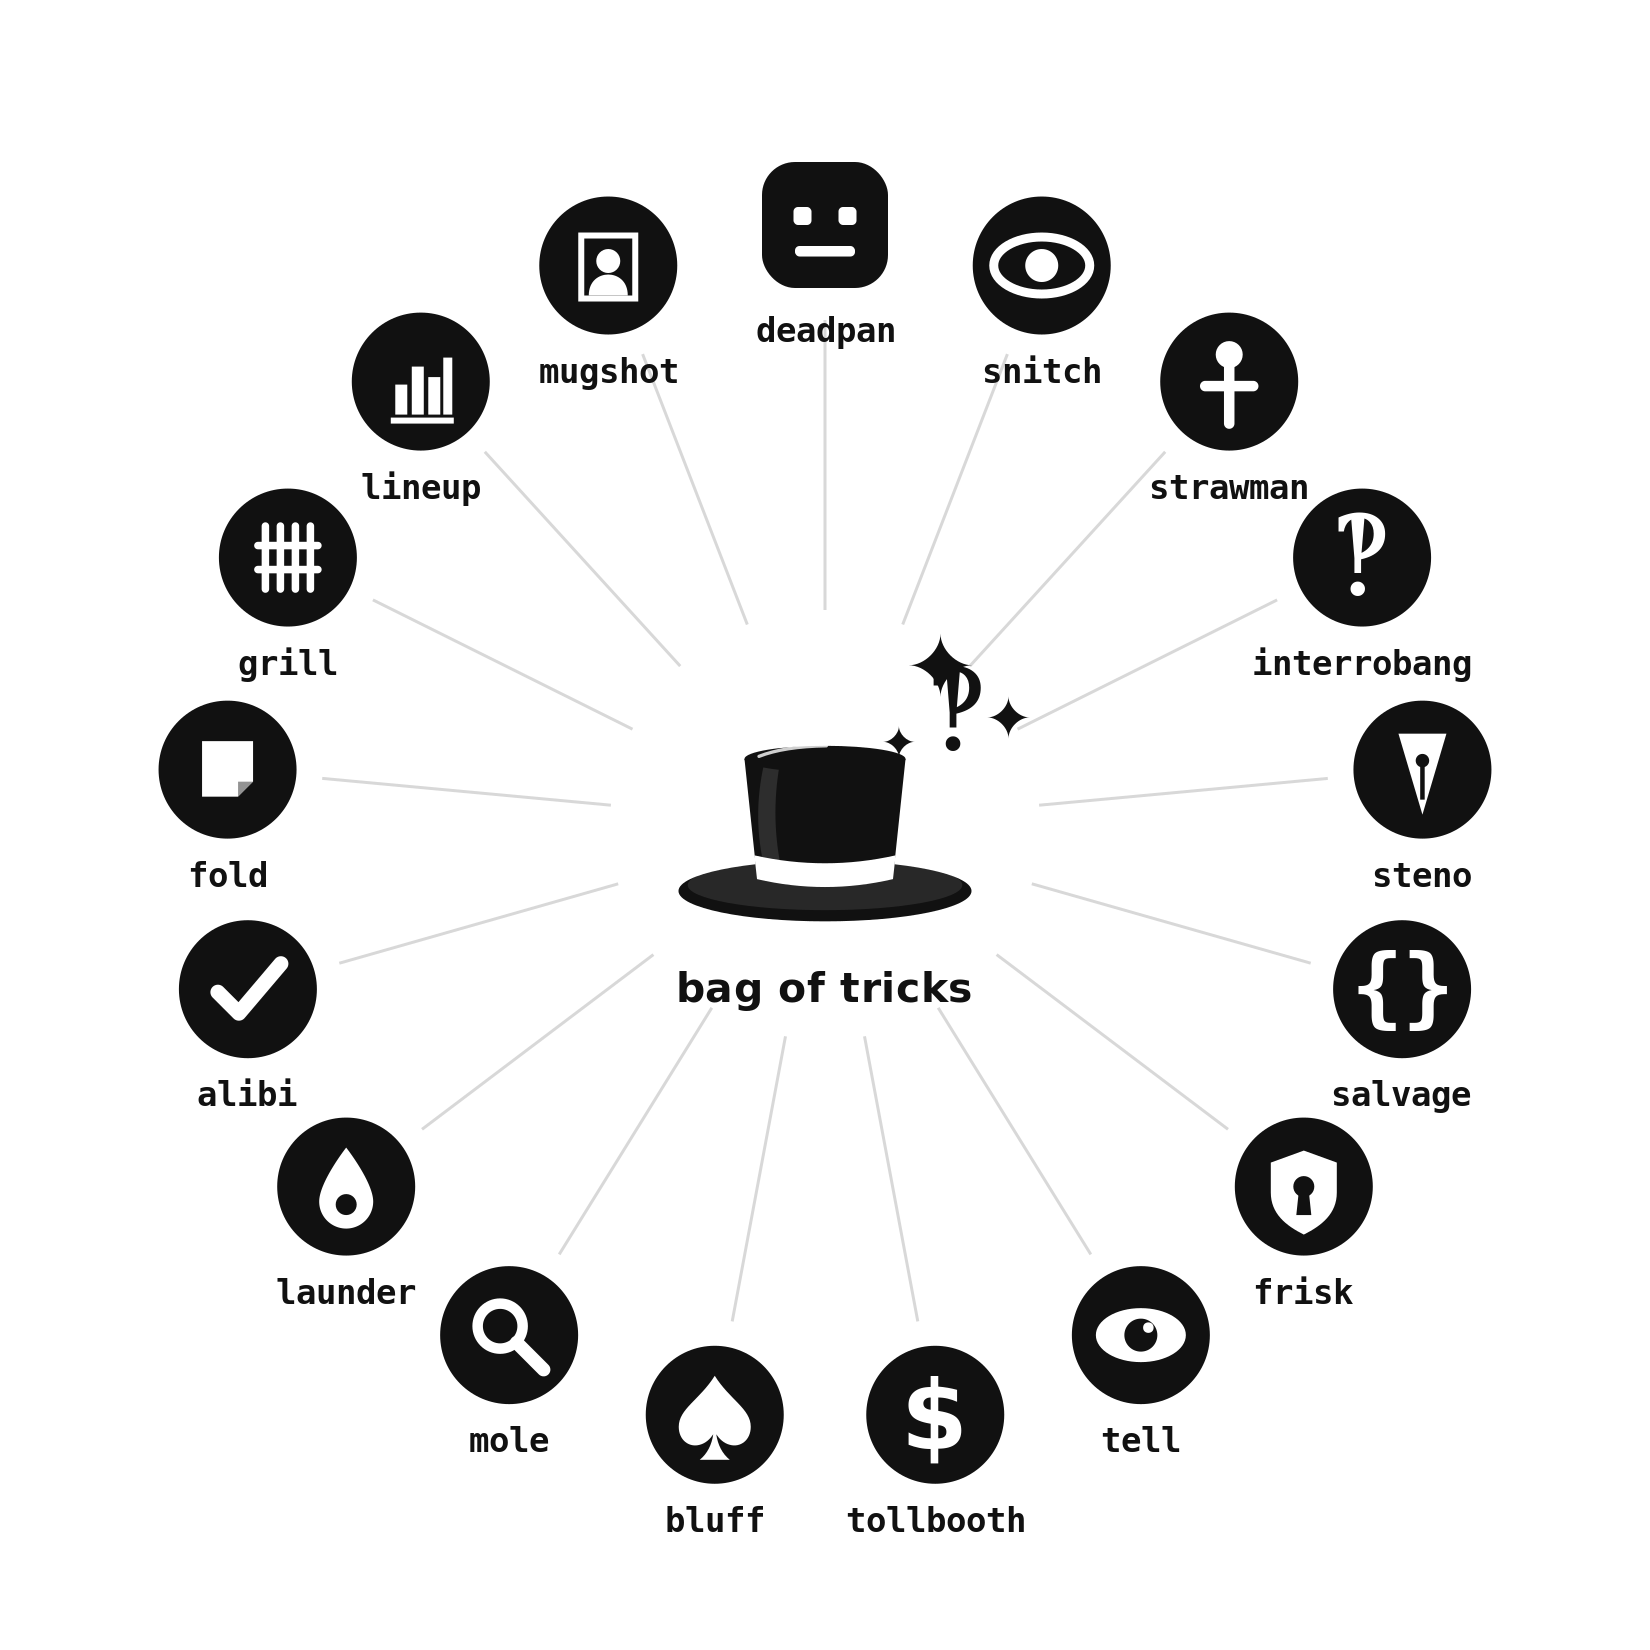
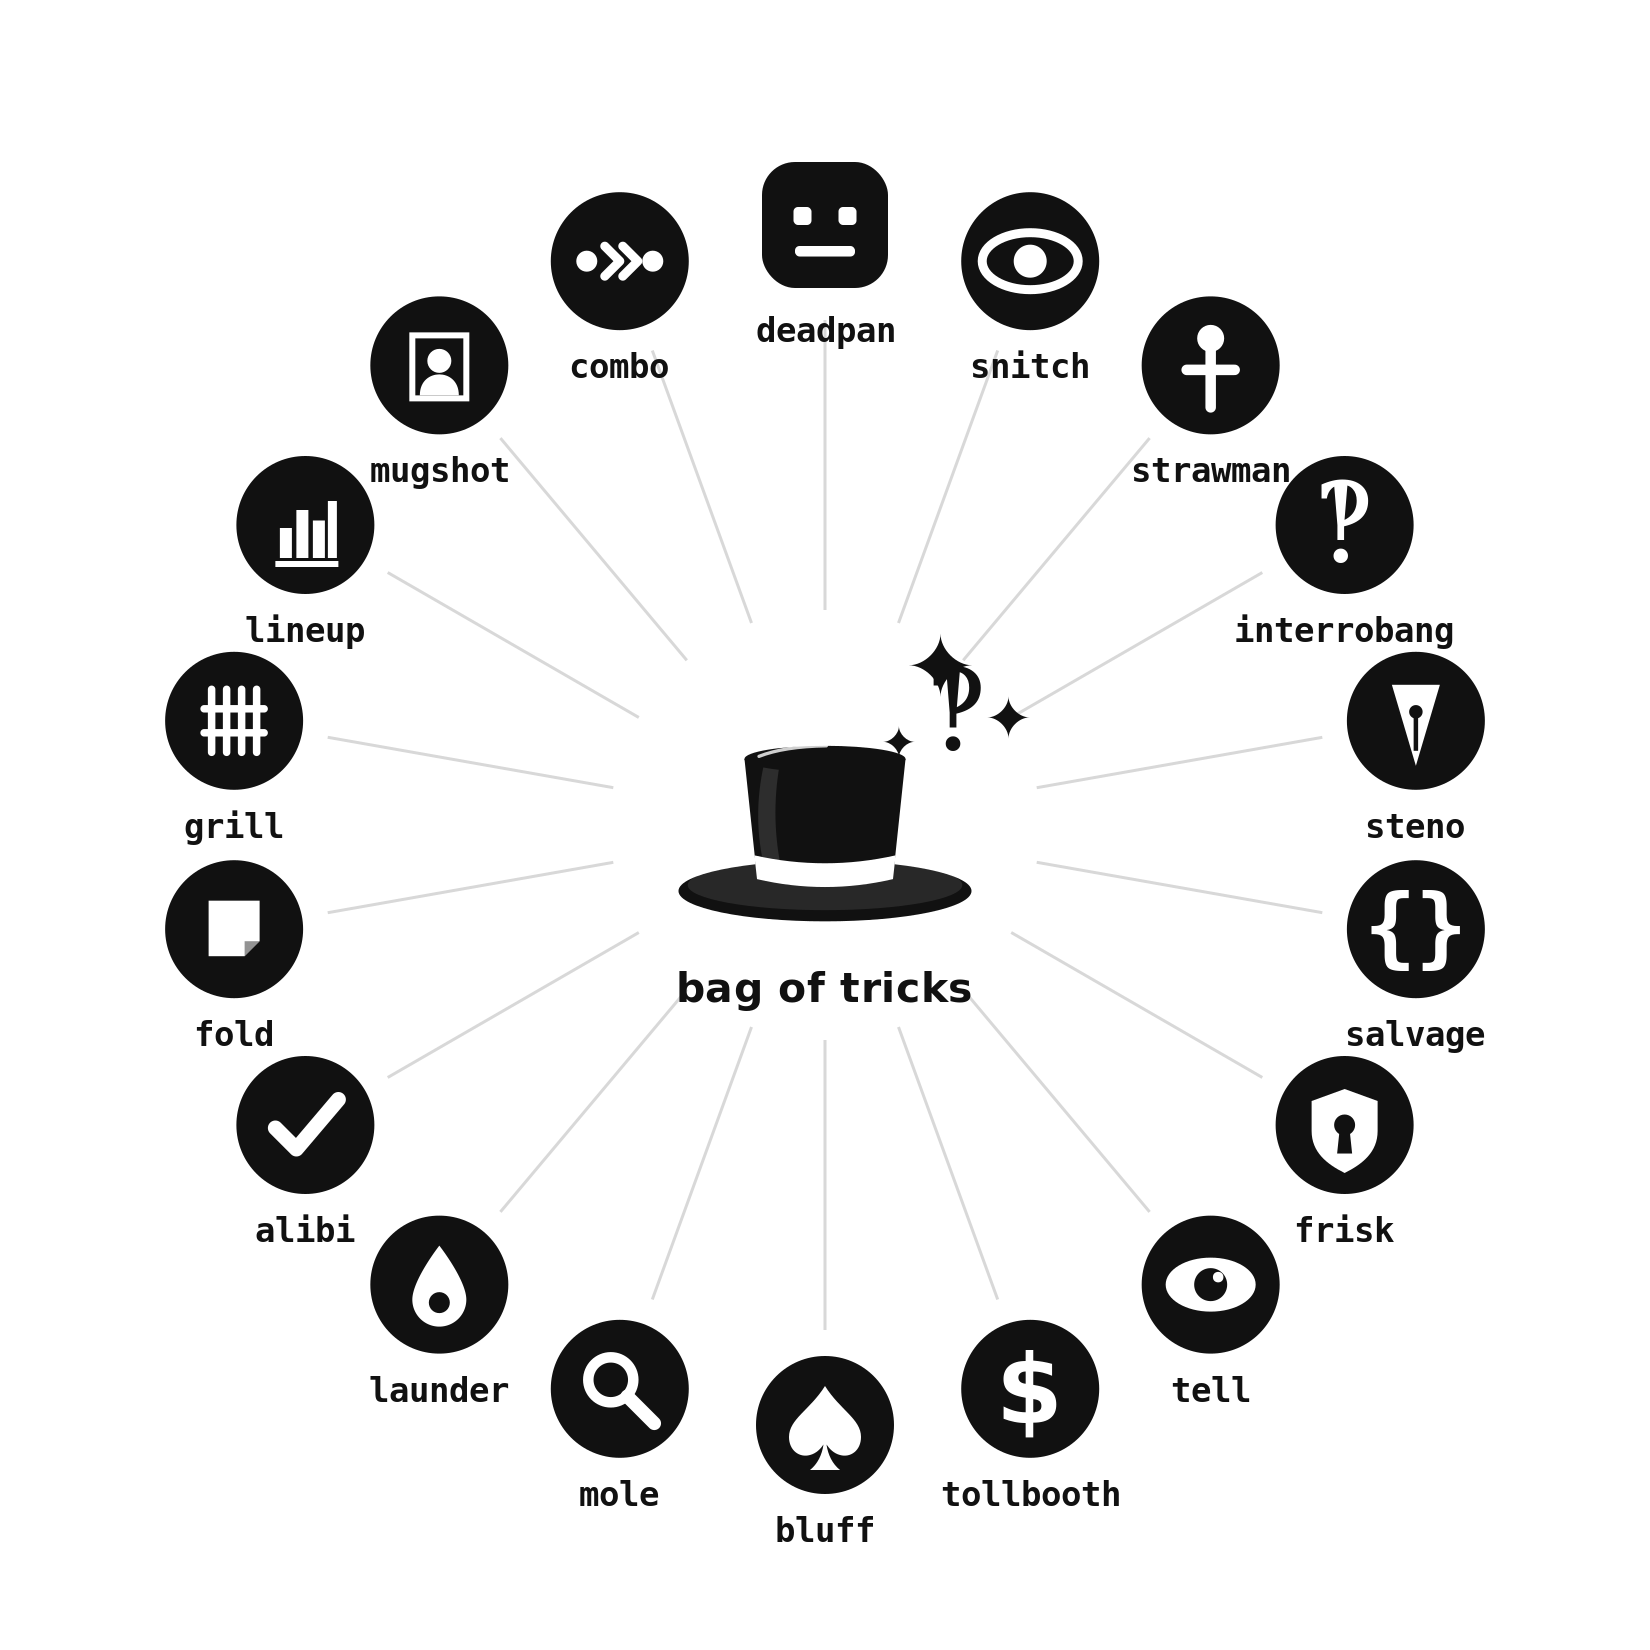
chore(assets): regenerate network, wheel, GIF, and site for combo
Re-render the bag-level visuals at 18 tricks now that `combo` is in:
the README hero GIF, the network and wheel PNGs, and index.html. combo
shows up under the workflow cluster with its chained-chevron icon.
Deterministic (seed=42), so the only diffs are the new node and count.

diff --git a/index.html b/index.html
@@ -111,7 +111,7 @@
     <div class="grid"></div>
     <svg id="net" preserveAspectRatio="xMidYMid meet">
       <g id="cedges"><line class="ce" id="ce0" stroke="#3b82f6"/><line class="ce" id="ce1" stroke="#22a55a"/><line class="ce" id="ce2" stroke="#e5534b"/><line class="ce" id="ce3" stroke="#a371f7"/><line class="ce" id="ce4" stroke="#d4a017"/></g>
-      <g id="tedges"><line class="te" id="te0" stroke="#3b82f6"/><line class="te" id="te1" stroke="#22a55a"/><line class="te" id="te2" stroke="#e5534b"/><line class="te" id="te3" stroke="#a371f7"/><line class="te" id="te4" stroke="#d4a017"/><line class="te" id="te5" stroke="#3b82f6"/><line class="te" id="te6" stroke="#e5534b"/><line class="te" id="te7" stroke="#3b82f6"/><line class="te" id="te8" stroke="#d4a017"/><line class="te" id="te9" stroke="#22a55a"/><line class="te" id="te10" stroke="#e5534b"/><line class="te" id="te11" stroke="#3b82f6"/><line class="te" id="te12" stroke="#22a55a"/><line class="te" id="te13" stroke="#3b82f6"/><line class="te" id="te14" stroke="#22a55a"/><line class="te" id="te15" stroke="#d4a017"/><line class="te" id="te16" stroke="#3b82f6"/></g>
+      <g id="tedges"><line class="te" id="te0" stroke="#3b82f6"/><line class="te" id="te1" stroke="#22a55a"/><line class="te" id="te2" stroke="#e5534b"/><line class="te" id="te3" stroke="#a371f7"/><line class="te" id="te4" stroke="#d4a017"/><line class="te" id="te5" stroke="#3b82f6"/><line class="te" id="te6" stroke="#e5534b"/><line class="te" id="te7" stroke="#3b82f6"/><line class="te" id="te8" stroke="#d4a017"/><line class="te" id="te9" stroke="#22a55a"/><line class="te" id="te10" stroke="#e5534b"/><line class="te" id="te11" stroke="#3b82f6"/><line class="te" id="te12" stroke="#22a55a"/><line class="te" id="te13" stroke="#3b82f6"/><line class="te" id="te14" stroke="#22a55a"/><line class="te" id="te15" stroke="#d4a017"/><line class="te" id="te16" stroke="#3b82f6"/><line class="te" id="te17" stroke="#a371f7"/></g>
       <g class="hat" id="hat">
   <title>bag of tricks</title>
 
@@ -150,7 +150,7 @@
         font-family="'SF Mono', ui-monospace, 'Menlo', 'Consolas', monospace"
         font-size="62" font-weight="600" letter-spacing="1" fill="#e6edf3">bag of tricks</text>
 </g>
-      <g id="nodes"><g class="node" id="node0" transform="translate(0,0)"><circle r="39" fill="#0d1117"/><g transform="translate(-30.0,-30.0) scale(0.600)"><rect x="8" y="8" width="84" height="84" rx="22" fill="#e6edf3"/><rect x="29" y="38" width="12" height="12" rx="3" fill="#0d1117"/><rect x="59" y="38" width="12" height="12" rx="3" fill="#0d1117"/><rect x="30" y="64" width="40" height="7" rx="3" fill="#0d1117"/></g><circle class="ring" r="39" fill="none" stroke="#3b82f6" stroke-width="3"/><circle class="hit" r="44"/><text y="61">deadpan</text></g><g class="node" id="node1" transform="translate(0,0)"><circle r="39" fill="#0d1117"/><g transform="translate(-30.0,-30.0) scale(0.600)"><circle cx="50" cy="50" r="46" fill="#e6edf3"/><ellipse cx="50" cy="50" rx="32" ry="19" fill="none" stroke="#0d1117" stroke-width="6"/><circle cx="50" cy="50" r="11" fill="#0d1117"/></g><circle class="ring" r="39" fill="none" stroke="#22a55a" stroke-width="3"/><circle class="hit" r="44"/><text y="61">snitch</text></g><g class="node" id="node2" transform="translate(0,0)"><circle r="39" fill="#0d1117"/><g transform="translate(-30.0,-30.0) scale(0.600)"><circle cx="50" cy="50" r="46" fill="#e6edf3"/><circle cx="50" cy="32" r="9" fill="#0d1117"/><line x1="50" y1="40" x2="50" y2="78" stroke="#0d1117" stroke-width="7" stroke-linecap="round"/><line x1="34" y1="53" x2="66" y2="53" stroke="#0d1117" stroke-width="7" stroke-linecap="round"/></g><circle class="ring" r="39" fill="none" stroke="#e5534b" stroke-width="3"/><circle class="hit" r="44"/><text y="61">strawman</text></g><g class="node" id="node3" transform="translate(0,0)"><circle r="39" fill="#0d1117"/><g transform="translate(-30.0,-30.0) scale(0.600)"><circle cx="50" cy="50" r="46" fill="#e6edf3"/><text x="50" y="74" font-family="Georgia, 'DejaVu Serif', 'Times New Roman', serif" font-size="74" fill="#0d1117" text-anchor="middle">&#8253;</text></g><circle class="ring" r="39" fill="none" stroke="#a371f7" stroke-width="3"/><circle class="hit" r="44"/><text y="61">interrobang</text></g><g class="node" id="node4" transform="translate(0,0)"><circle r="39" fill="#0d1117"/><g transform="translate(-30.0,-30.0) scale(0.600)"><circle cx="50" cy="50" r="46" fill="#e6edf3"/><path d="M34 26 L66 26 L50 80 Z" fill="#0d1117"/><circle cx="50" cy="44" r="4.5" fill="#e6edf3"/><line x1="50" y1="48" x2="50" y2="70" stroke="#e6edf3" stroke-width="3"/></g><circle class="ring" r="39" fill="none" stroke="#d4a017" stroke-width="3"/><circle class="hit" r="44"/><text y="61">steno</text></g><g class="node" id="node5" transform="translate(0,0)"><circle r="39" fill="#0d1117"/><g transform="translate(-30.0,-30.0) scale(0.600)"><circle cx="50" cy="50" r="46" fill="#e6edf3"/><text x="33" y="68" font-family="'DejaVu Sans Mono', 'Liberation Mono', ui-monospace, Menlo, Consolas, monospace" font-size="58" font-weight="700" fill="#0d1117" text-anchor="middle">{</text><text x="67" y="68" font-family="'DejaVu Sans Mono', 'Liberation Mono', ui-monospace, Menlo, Consolas, monospace" font-size="58" font-weight="700" fill="#0d1117" text-anchor="middle">}</text></g><circle class="ring" r="39" fill="none" stroke="#3b82f6" stroke-width="3"/><circle class="hit" r="44"/><text y="61">salvage</text></g><g class="node" id="node6" transform="translate(0,0)"><circle r="39" fill="#0d1117"/><g transform="translate(-30.0,-30.0) scale(0.600)"><circle cx="50" cy="50" r="46" fill="#e6edf3"/><path d="M50 26 L72 34 L72 54 C72 68 62 76 50 82 C38 76 28 68 28 54 L28 34 Z" fill="#0d1117"/><circle cx="50" cy="50" r="7" fill="#e6edf3"/><path d="M47 50 L53 50 L55 69 L45 69 Z" fill="#e6edf3"/></g><circle class="ring" r="39" fill="none" stroke="#e5534b" stroke-width="3"/><circle class="hit" r="44"/><text y="61">frisk</text></g><g class="node" id="node7" transform="translate(0,0)"><circle r="39" fill="#0d1117"/><g transform="translate(-30.0,-30.0) scale(0.600)"><circle cx="50" cy="50" r="46" fill="#e6edf3"/><ellipse cx="50" cy="50" rx="30" ry="18" fill="#0d1117"/><circle cx="50" cy="50" r="11" fill="#e6edf3"/><circle cx="55" cy="45" r="3.5" fill="#0d1117"/></g><circle class="ring" r="39" fill="none" stroke="#3b82f6" stroke-width="3"/><circle class="hit" r="44"/><text y="61">tell</text></g><g class="node" id="node8" transform="translate(0,0)"><circle r="39" fill="#0d1117"/><g transform="translate(-30.0,-30.0) scale(0.600)"><circle cx="50" cy="50" r="46" fill="#e6edf3"/><text x="50" y="73" font-family="'DejaVu Sans', 'Liberation Sans', 'Helvetica Neue', Arial, sans-serif" font-size="64" font-weight="700" fill="#0d1117" text-anchor="middle">$</text></g><circle class="ring" r="39" fill="none" stroke="#d4a017" stroke-width="3"/><circle class="hit" r="44"/><text y="61">tollbooth</text></g><g class="node" id="node9" transform="translate(0,0)"><circle r="39" fill="#0d1117"/><g transform="translate(-30.0,-30.0) scale(0.600)"><circle cx="50" cy="50" r="46" fill="#e6edf3"/><path d="M50 24 C40 40 26 46 26 58 C26 67 33 72 40 70 C44 69 47 66 49 63 C48 70 45 76 40 80 L60 80 C55 76 52 70 51 63 C53 66 56 69 60 70 C67 72 74 67 74 58 C74 46 60 40 50 24 Z" fill="#0d1117"/></g><circle class="ring" r="39" fill="none" stroke="#22a55a" stroke-width="3"/><circle class="hit" r="44"/><text y="61">bluff</text></g><g class="node" id="node10" transform="translate(0,0)"><circle r="39" fill="#0d1117"/><g transform="translate(-30.0,-30.0) scale(0.600)"><circle cx="50" cy="50" r="46" fill="#e6edf3"/><circle cx="44" cy="44" r="15" fill="none" stroke="#0d1117" stroke-width="7"/><line x1="55" y1="55" x2="73" y2="73" stroke="#0d1117" stroke-width="9" stroke-linecap="round"/></g><circle class="ring" r="39" fill="none" stroke="#e5534b" stroke-width="3"/><circle class="hit" r="44"/><text y="61">mole</text></g><g class="node" id="node11" transform="translate(0,0)"><circle r="39" fill="#0d1117"/><g transform="translate(-30.0,-30.0) scale(0.600)"><circle cx="50" cy="50" r="46" fill="#e6edf3"/><path d="M50 24 C50 24 32 47 32 60 A18 18 0 1 0 68 60 C68 47 50 24 50 24 Z" fill="#0d1117"/><circle cx="50" cy="62" r="7" fill="#e6edf3"/></g><circle class="ring" r="39" fill="none" stroke="#3b82f6" stroke-width="3"/><circle class="hit" r="44"/><text y="61">launder</text></g><g class="node" id="node12" transform="translate(0,0)"><circle r="39" fill="#0d1117"/><g transform="translate(-30.0,-30.0) scale(0.600)"><circle cx="50" cy="50" r="46" fill="#e6edf3"/><path d="M30 52 L44 66 L72 33" fill="none" stroke="#0d1117" stroke-width="10" stroke-linecap="round" stroke-linejoin="round"/></g><circle class="ring" r="39" fill="none" stroke="#22a55a" stroke-width="3"/><circle class="hit" r="44"/><text y="61">alibi</text></g><g class="node" id="node13" transform="translate(0,0)"><circle r="39" fill="#0d1117"/><g transform="translate(-30.0,-30.0) scale(0.600)"><circle cx="50" cy="50" r="46" fill="#e6edf3"/><path d="M33 31 H67 V58 L57 68 H33 Z" fill="#0d1117"/><path d="M67 58 H57 V68 Z" fill="#e6edf3" opacity="0.45"/></g><circle class="ring" r="39" fill="none" stroke="#3b82f6" stroke-width="3"/><circle class="hit" r="44"/><text y="61">fold</text></g><g class="node" id="node14" transform="translate(0,0)"><circle r="39" fill="#0d1117"/><g transform="translate(-30.0,-30.0) scale(0.600)"><circle cx="50" cy="50" r="46" fill="#e6edf3"/><g stroke="#0d1117" stroke-width="5" stroke-linecap="round"><line x1="35" y1="29" x2="35" y2="71"/><line x1="45" y1="29" x2="45" y2="71"/><line x1="55" y1="29" x2="55" y2="71"/><line x1="65" y1="29" x2="65" y2="71"/><line x1="30" y1="42" x2="70" y2="42"/><line x1="30" y1="58" x2="70" y2="58"/></g></g><circle class="ring" r="39" fill="none" stroke="#22a55a" stroke-width="3"/><circle class="hit" r="44"/><text y="61">grill</text></g><g class="node" id="node15" transform="translate(0,0)"><circle r="39" fill="#0d1117"/><g transform="translate(-30.0,-30.0) scale(0.600)"><circle cx="50" cy="50" r="46" fill="#e6edf3"/><g fill="#0d1117"><rect x="33" y="52" width="8" height="20"/><rect x="44" y="40" width="8" height="32"/><rect x="55" y="47" width="8" height="25"/><rect x="65" y="34" width="6" height="38"/><rect x="30" y="74" width="42" height="4"/></g></g><circle class="ring" r="39" fill="none" stroke="#d4a017" stroke-width="3"/><circle class="hit" r="44"/><text y="61">lineup</text></g><g class="node" id="node16" transform="translate(0,0)"><circle r="39" fill="#0d1117"/><g transform="translate(-30.0,-30.0) scale(0.600)"><circle cx="50" cy="50" r="46" fill="#e6edf3"/><rect x="32" y="30" width="36" height="42" fill="none" stroke="#0d1117" stroke-width="4"/><circle cx="50" cy="47" r="8" fill="#0d1117"/><path d="M37 70 C37 60 44 56 50 56 C56 56 63 60 63 70 Z" fill="#0d1117"/></g><circle class="ring" r="39" fill="none" stroke="#3b82f6" stroke-width="3"/><circle class="hit" r="44"/><text y="61">mugshot</text></g></g>
+      <g id="nodes"><g class="node" id="node0" transform="translate(0,0)"><circle r="39" fill="#0d1117"/><g transform="translate(-30.0,-30.0) scale(0.600)"><rect x="8" y="8" width="84" height="84" rx="22" fill="#e6edf3"/><rect x="29" y="38" width="12" height="12" rx="3" fill="#0d1117"/><rect x="59" y="38" width="12" height="12" rx="3" fill="#0d1117"/><rect x="30" y="64" width="40" height="7" rx="3" fill="#0d1117"/></g><circle class="ring" r="39" fill="none" stroke="#3b82f6" stroke-width="3"/><circle class="hit" r="44"/><text y="61">deadpan</text></g><g class="node" id="node1" transform="translate(0,0)"><circle r="39" fill="#0d1117"/><g transform="translate(-30.0,-30.0) scale(0.600)"><circle cx="50" cy="50" r="46" fill="#e6edf3"/><ellipse cx="50" cy="50" rx="32" ry="19" fill="none" stroke="#0d1117" stroke-width="6"/><circle cx="50" cy="50" r="11" fill="#0d1117"/></g><circle class="ring" r="39" fill="none" stroke="#22a55a" stroke-width="3"/><circle class="hit" r="44"/><text y="61">snitch</text></g><g class="node" id="node2" transform="translate(0,0)"><circle r="39" fill="#0d1117"/><g transform="translate(-30.0,-30.0) scale(0.600)"><circle cx="50" cy="50" r="46" fill="#e6edf3"/><circle cx="50" cy="32" r="9" fill="#0d1117"/><line x1="50" y1="40" x2="50" y2="78" stroke="#0d1117" stroke-width="7" stroke-linecap="round"/><line x1="34" y1="53" x2="66" y2="53" stroke="#0d1117" stroke-width="7" stroke-linecap="round"/></g><circle class="ring" r="39" fill="none" stroke="#e5534b" stroke-width="3"/><circle class="hit" r="44"/><text y="61">strawman</text></g><g class="node" id="node3" transform="translate(0,0)"><circle r="39" fill="#0d1117"/><g transform="translate(-30.0,-30.0) scale(0.600)"><circle cx="50" cy="50" r="46" fill="#e6edf3"/><text x="50" y="74" font-family="Georgia, 'DejaVu Serif', 'Times New Roman', serif" font-size="74" fill="#0d1117" text-anchor="middle">&#8253;</text></g><circle class="ring" r="39" fill="none" stroke="#a371f7" stroke-width="3"/><circle class="hit" r="44"/><text y="61">interrobang</text></g><g class="node" id="node4" transform="translate(0,0)"><circle r="39" fill="#0d1117"/><g transform="translate(-30.0,-30.0) scale(0.600)"><circle cx="50" cy="50" r="46" fill="#e6edf3"/><path d="M34 26 L66 26 L50 80 Z" fill="#0d1117"/><circle cx="50" cy="44" r="4.5" fill="#e6edf3"/><line x1="50" y1="48" x2="50" y2="70" stroke="#e6edf3" stroke-width="3"/></g><circle class="ring" r="39" fill="none" stroke="#d4a017" stroke-width="3"/><circle class="hit" r="44"/><text y="61">steno</text></g><g class="node" id="node5" transform="translate(0,0)"><circle r="39" fill="#0d1117"/><g transform="translate(-30.0,-30.0) scale(0.600)"><circle cx="50" cy="50" r="46" fill="#e6edf3"/><text x="33" y="68" font-family="'DejaVu Sans Mono', 'Liberation Mono', ui-monospace, Menlo, Consolas, monospace" font-size="58" font-weight="700" fill="#0d1117" text-anchor="middle">{</text><text x="67" y="68" font-family="'DejaVu Sans Mono', 'Liberation Mono', ui-monospace, Menlo, Consolas, monospace" font-size="58" font-weight="700" fill="#0d1117" text-anchor="middle">}</text></g><circle class="ring" r="39" fill="none" stroke="#3b82f6" stroke-width="3"/><circle class="hit" r="44"/><text y="61">salvage</text></g><g class="node" id="node6" transform="translate(0,0)"><circle r="39" fill="#0d1117"/><g transform="translate(-30.0,-30.0) scale(0.600)"><circle cx="50" cy="50" r="46" fill="#e6edf3"/><path d="M50 26 L72 34 L72 54 C72 68 62 76 50 82 C38 76 28 68 28 54 L28 34 Z" fill="#0d1117"/><circle cx="50" cy="50" r="7" fill="#e6edf3"/><path d="M47 50 L53 50 L55 69 L45 69 Z" fill="#e6edf3"/></g><circle class="ring" r="39" fill="none" stroke="#e5534b" stroke-width="3"/><circle class="hit" r="44"/><text y="61">frisk</text></g><g class="node" id="node7" transform="translate(0,0)"><circle r="39" fill="#0d1117"/><g transform="translate(-30.0,-30.0) scale(0.600)"><circle cx="50" cy="50" r="46" fill="#e6edf3"/><ellipse cx="50" cy="50" rx="30" ry="18" fill="#0d1117"/><circle cx="50" cy="50" r="11" fill="#e6edf3"/><circle cx="55" cy="45" r="3.5" fill="#0d1117"/></g><circle class="ring" r="39" fill="none" stroke="#3b82f6" stroke-width="3"/><circle class="hit" r="44"/><text y="61">tell</text></g><g class="node" id="node8" transform="translate(0,0)"><circle r="39" fill="#0d1117"/><g transform="translate(-30.0,-30.0) scale(0.600)"><circle cx="50" cy="50" r="46" fill="#e6edf3"/><text x="50" y="73" font-family="'DejaVu Sans', 'Liberation Sans', 'Helvetica Neue', Arial, sans-serif" font-size="64" font-weight="700" fill="#0d1117" text-anchor="middle">$</text></g><circle class="ring" r="39" fill="none" stroke="#d4a017" stroke-width="3"/><circle class="hit" r="44"/><text y="61">tollbooth</text></g><g class="node" id="node9" transform="translate(0,0)"><circle r="39" fill="#0d1117"/><g transform="translate(-30.0,-30.0) scale(0.600)"><circle cx="50" cy="50" r="46" fill="#e6edf3"/><path d="M50 24 C40 40 26 46 26 58 C26 67 33 72 40 70 C44 69 47 66 49 63 C48 70 45 76 40 80 L60 80 C55 76 52 70 51 63 C53 66 56 69 60 70 C67 72 74 67 74 58 C74 46 60 40 50 24 Z" fill="#0d1117"/></g><circle class="ring" r="39" fill="none" stroke="#22a55a" stroke-width="3"/><circle class="hit" r="44"/><text y="61">bluff</text></g><g class="node" id="node10" transform="translate(0,0)"><circle r="39" fill="#0d1117"/><g transform="translate(-30.0,-30.0) scale(0.600)"><circle cx="50" cy="50" r="46" fill="#e6edf3"/><circle cx="44" cy="44" r="15" fill="none" stroke="#0d1117" stroke-width="7"/><line x1="55" y1="55" x2="73" y2="73" stroke="#0d1117" stroke-width="9" stroke-linecap="round"/></g><circle class="ring" r="39" fill="none" stroke="#e5534b" stroke-width="3"/><circle class="hit" r="44"/><text y="61">mole</text></g><g class="node" id="node11" transform="translate(0,0)"><circle r="39" fill="#0d1117"/><g transform="translate(-30.0,-30.0) scale(0.600)"><circle cx="50" cy="50" r="46" fill="#e6edf3"/><path d="M50 24 C50 24 32 47 32 60 A18 18 0 1 0 68 60 C68 47 50 24 50 24 Z" fill="#0d1117"/><circle cx="50" cy="62" r="7" fill="#e6edf3"/></g><circle class="ring" r="39" fill="none" stroke="#3b82f6" stroke-width="3"/><circle class="hit" r="44"/><text y="61">launder</text></g><g class="node" id="node12" transform="translate(0,0)"><circle r="39" fill="#0d1117"/><g transform="translate(-30.0,-30.0) scale(0.600)"><circle cx="50" cy="50" r="46" fill="#e6edf3"/><path d="M30 52 L44 66 L72 33" fill="none" stroke="#0d1117" stroke-width="10" stroke-linecap="round" stroke-linejoin="round"/></g><circle class="ring" r="39" fill="none" stroke="#22a55a" stroke-width="3"/><circle class="hit" r="44"/><text y="61">alibi</text></g><g class="node" id="node13" transform="translate(0,0)"><circle r="39" fill="#0d1117"/><g transform="translate(-30.0,-30.0) scale(0.600)"><circle cx="50" cy="50" r="46" fill="#e6edf3"/><path d="M33 31 H67 V58 L57 68 H33 Z" fill="#0d1117"/><path d="M67 58 H57 V68 Z" fill="#e6edf3" opacity="0.45"/></g><circle class="ring" r="39" fill="none" stroke="#3b82f6" stroke-width="3"/><circle class="hit" r="44"/><text y="61">fold</text></g><g class="node" id="node14" transform="translate(0,0)"><circle r="39" fill="#0d1117"/><g transform="translate(-30.0,-30.0) scale(0.600)"><circle cx="50" cy="50" r="46" fill="#e6edf3"/><g stroke="#0d1117" stroke-width="5" stroke-linecap="round"><line x1="35" y1="29" x2="35" y2="71"/><line x1="45" y1="29" x2="45" y2="71"/><line x1="55" y1="29" x2="55" y2="71"/><line x1="65" y1="29" x2="65" y2="71"/><line x1="30" y1="42" x2="70" y2="42"/><line x1="30" y1="58" x2="70" y2="58"/></g></g><circle class="ring" r="39" fill="none" stroke="#22a55a" stroke-width="3"/><circle class="hit" r="44"/><text y="61">grill</text></g><g class="node" id="node15" transform="translate(0,0)"><circle r="39" fill="#0d1117"/><g transform="translate(-30.0,-30.0) scale(0.600)"><circle cx="50" cy="50" r="46" fill="#e6edf3"/><g fill="#0d1117"><rect x="33" y="52" width="8" height="20"/><rect x="44" y="40" width="8" height="32"/><rect x="55" y="47" width="8" height="25"/><rect x="65" y="34" width="6" height="38"/><rect x="30" y="74" width="42" height="4"/></g></g><circle class="ring" r="39" fill="none" stroke="#d4a017" stroke-width="3"/><circle class="hit" r="44"/><text y="61">lineup</text></g><g class="node" id="node16" transform="translate(0,0)"><circle r="39" fill="#0d1117"/><g transform="translate(-30.0,-30.0) scale(0.600)"><circle cx="50" cy="50" r="46" fill="#e6edf3"/><rect x="32" y="30" width="36" height="42" fill="none" stroke="#0d1117" stroke-width="4"/><circle cx="50" cy="47" r="8" fill="#0d1117"/><path d="M37 70 C37 60 44 56 50 56 C56 56 63 60 63 70 Z" fill="#0d1117"/></g><circle class="ring" r="39" fill="none" stroke="#3b82f6" stroke-width="3"/><circle class="hit" r="44"/><text y="61">mugshot</text></g><g class="node" id="node17" transform="translate(0,0)"><circle r="39" fill="#0d1117"/><g transform="translate(-30.0,-30.0) scale(0.600)"><circle cx="50" cy="50" r="46" fill="#e6edf3"/><circle cx="28" cy="50" r="7" fill="#0d1117"/><circle cx="72" cy="50" r="7" fill="#0d1117"/><path d="M40 40 L50 50 L40 60" fill="none" stroke="#0d1117" stroke-width="6" stroke-linecap="round" stroke-linejoin="round"/><path d="M52 40 L62 50 L52 60" fill="none" stroke="#0d1117" stroke-width="6" stroke-linecap="round" stroke-linejoin="round"/></g><circle class="ring" r="39" fill="none" stroke="#a371f7" stroke-width="3"/><circle class="hit" r="44"/><text y="61">combo</text></g></g>
       <g id="cats"><g class="cat" id="cat0" transform="translate(0,0)"><rect x="-50" y="-24" width="101" height="48" rx="24" fill="#3b82f6"/><text y="6">output</text><rect class="hit" x="-50" y="-24" width="101" height="48" rx="24"/></g><g class="cat" id="cat1" transform="translate(0,0)"><rect x="-67" y="-24" width="133" height="48" rx="24" fill="#22a55a"/><text y="6">debugging</text><rect class="hit" x="-67" y="-24" width="133" height="48" rx="24"/></g><g class="cat" id="cat2" transform="translate(0,0)"><rect x="-61" y="-24" width="122" height="48" rx="24" fill="#e5534b"/><text y="6">security</text><rect class="hit" x="-61" y="-24" width="122" height="48" rx="24"/></g><g class="cat" id="cat3" transform="translate(0,0)"><rect x="-61" y="-24" width="122" height="48" rx="24" fill="#a371f7"/><text y="6">workflow</text><rect class="hit" x="-61" y="-24" width="122" height="48" rx="24"/></g><g class="cat" id="cat4" transform="translate(0,0)"><rect x="-83" y="-24" width="166" height="48" rx="24" fill="#d4a017"/><text y="6">productivity</text><rect class="hit" x="-83" y="-24" width="166" height="48" rx="24"/></g></g>
     </svg>
     <div id="panel">
@@ -164,7 +164,7 @@
   </div>
 </div>
 <script>
-const T = [{"name": "deadpan", "cat": "output", "color": "#3b82f6", "catchphrase": "the answer. nothing else.", "description": "strip LLM replies of personality, filler, hedging, emoji, and sycophancy."}, {"name": "snitch", "cat": "debugging", "color": "#22a55a", "catchphrase": "see what your agent actually said behind your back.", "description": "a transparent proxy + web UI that logs the exact bytes your agent sends the model."}, {"name": "strawman", "cat": "security", "color": "#e5534b", "catchphrase": "argue with yourself before the internet does.", "description": "red-team a prompt across jailbreak, injection, derailment, extraction, and ambiguity."}, {"name": "interrobang", "cat": "workflow", "color": "#a371f7", "catchphrase": "make it ask before it acts.", "description": "flip the helpful-assistant reflex: ask one sharp clarifying question instead of guessing."}, {"name": "steno", "cat": "productivity", "color": "#d4a017", "catchphrase": "two letters, and the prompt writes itself.", "description": "short aliases that expand into full prompts for common dev tasks."}, {"name": "salvage", "cat": "output", "color": "#3b82f6", "catchphrase": "rip the JSON out of the chatter.", "description": "extract and repair valid JSON buried in chatty LLM output (fences, trailing commas, Python literals)."}, {"name": "frisk", "cat": "security", "color": "#e5534b", "catchphrase": "pat it down before it ships.", "description": "scan text headed to the model for secrets and PII (API keys, tokens, private keys, emails) and redact or flag them."}, {"name": "tell", "cat": "output", "color": "#3b82f6", "catchphrase": "every AI has a tell.", "description": "flag the giveaways in AI-written prose (delve, tapestry, \"it's not just X, it's Y\", em-dash overuse)."}, {"name": "tollbooth", "cat": "productivity", "color": "#d4a017", "catchphrase": "know the bill before the bill.", "description": "estimate token count and dollar cost of a prompt across models before you send it."}, {"name": "bluff", "cat": "debugging", "color": "#22a55a", "catchphrase": "call its bluff.", "description": "extract the URLs and citations from an answer and check they actually resolve, catching hallucinated links."}, {"name": "mole", "cat": "security", "color": "#e5534b", "catchphrase": "find the plant.", "description": "sniff out prompt-injection and planted instructions hiding in untrusted input before it reaches the model."}, {"name": "launder", "cat": "output", "color": "#3b82f6", "catchphrase": "wash out the prints.", "description": "strip the mechanical fingerprints from text: zero-width chars, smart quotes, exotic spaces, em-dash tics."}, {"name": "alibi", "cat": "debugging", "color": "#22a55a", "catchphrase": "does the story check out?", "description": "flag answer claims that aren't supported by the provided sources (a lexical grounding check for RAG)."}, {"name": "fold", "cat": "output", "color": "#3b82f6", "catchphrase": "know when to fold.", "description": "catch overconfident phrasing and absolutes so the model hedges or abstains instead of bluffing."}, {"name": "grill", "cat": "debugging", "color": "#22a55a", "catchphrase": "put it in the hot seat.", "description": "adversarially interrogate an answer with probing follow-ups before you trust it."}, {"name": "lineup", "cat": "productivity", "color": "#d4a017", "catchphrase": "same prompt, the whole lineup.", "description": "run one prompt across several models and lay the answers side by side."}, {"name": "mugshot", "cat": "output", "color": "#3b82f6", "catchphrase": "we know your prints.", "description": "guess which model wrote a passage from its stylistic fingerprints (a heuristic, not proof)."}], CATS = [{"name": "output", "color": "#3b82f6", "blurb": "shape and clean up what the model emits", "members": ["deadpan", "salvage", "tell", "launder", "fold", "mugshot"]}, {"name": "debugging", "color": "#22a55a", "blurb": "see and fix what your agent is actually doing", "members": ["snitch", "bluff", "alibi", "grill"]}, {"name": "security", "color": "#e5534b", "blurb": "probe prompts and context for attacks and leaks", "members": ["strawman", "frisk", "mole"]}, {"name": "workflow", "color": "#a371f7", "blurb": "change how the model decides and when it acts", "members": ["interrobang"]}, {"name": "productivity", "color": "#d4a017", "blurb": "everyday LLM dev chores, done faster", "members": ["steno", "tollbooth", "lineup"]}], CATOF = [0, 1, 2, 3, 4, 0, 2, 0, 4, 1, 2, 0, 1, 0, 1, 4, 0], SEED = 42;
+const T = [{"name": "deadpan", "cat": "output", "color": "#3b82f6", "catchphrase": "the answer. nothing else.", "description": "strip LLM replies of personality, filler, hedging, emoji, and sycophancy."}, {"name": "snitch", "cat": "debugging", "color": "#22a55a", "catchphrase": "see what your agent actually said behind your back.", "description": "a transparent proxy + web UI that logs the exact bytes your agent sends the model."}, {"name": "strawman", "cat": "security", "color": "#e5534b", "catchphrase": "argue with yourself before the internet does.", "description": "red-team a prompt across jailbreak, injection, derailment, extraction, and ambiguity."}, {"name": "interrobang", "cat": "workflow", "color": "#a371f7", "catchphrase": "make it ask before it acts.", "description": "flip the helpful-assistant reflex: ask one sharp clarifying question instead of guessing."}, {"name": "steno", "cat": "productivity", "color": "#d4a017", "catchphrase": "two letters, and the prompt writes itself.", "description": "short aliases that expand into full prompts for common dev tasks."}, {"name": "salvage", "cat": "output", "color": "#3b82f6", "catchphrase": "rip the JSON out of the chatter.", "description": "extract and repair valid JSON buried in chatty LLM output (fences, trailing commas, Python literals)."}, {"name": "frisk", "cat": "security", "color": "#e5534b", "catchphrase": "pat it down before it ships.", "description": "scan text headed to the model for secrets and PII (API keys, tokens, private keys, emails) and redact or flag them."}, {"name": "tell", "cat": "output", "color": "#3b82f6", "catchphrase": "every AI has a tell.", "description": "flag the giveaways in AI-written prose (delve, tapestry, \"it's not just X, it's Y\", em-dash overuse)."}, {"name": "tollbooth", "cat": "productivity", "color": "#d4a017", "catchphrase": "know the bill before the bill.", "description": "estimate token count and dollar cost of a prompt across models before you send it."}, {"name": "bluff", "cat": "debugging", "color": "#22a55a", "catchphrase": "call its bluff.", "description": "extract the URLs and citations from an answer and check they actually resolve, catching hallucinated links."}, {"name": "mole", "cat": "security", "color": "#e5534b", "catchphrase": "find the plant.", "description": "sniff out prompt-injection and planted instructions hiding in untrusted input before it reaches the model."}, {"name": "launder", "cat": "output", "color": "#3b82f6", "catchphrase": "wash out the prints.", "description": "strip the mechanical fingerprints from text: zero-width chars, smart quotes, exotic spaces, em-dash tics."}, {"name": "alibi", "cat": "debugging", "color": "#22a55a", "catchphrase": "does the story check out?", "description": "flag answer claims that aren't supported by the provided sources (a lexical grounding check for RAG)."}, {"name": "fold", "cat": "output", "color": "#3b82f6", "catchphrase": "know when to fold.", "description": "catch overconfident phrasing and absolutes so the model hedges or abstains instead of bluffing."}, {"name": "grill", "cat": "debugging", "color": "#22a55a", "catchphrase": "put it in the hot seat.", "description": "adversarially interrogate an answer with probing follow-ups before you trust it."}, {"name": "lineup", "cat": "productivity", "color": "#d4a017", "catchphrase": "same prompt, the whole lineup.", "description": "run one prompt across several models and lay the answers side by side."}, {"name": "mugshot", "cat": "output", "color": "#3b82f6", "catchphrase": "we know your prints.", "description": "guess which model wrote a passage from its stylistic fingerprints (a heuristic, not proof)."}, {"name": "combo", "cat": "workflow", "color": "#a371f7", "catchphrase": "pull the whole routine.", "description": "chain tricks into one pipeline so the output of one flows into the next: `combo \"frisk | launder | deadpan\"`."}], CATS = [{"name": "output", "color": "#3b82f6", "blurb": "shape and clean up what the model emits", "members": ["deadpan", "salvage", "tell", "launder", "fold", "mugshot"]}, {"name": "debugging", "color": "#22a55a", "blurb": "see and fix what your agent is actually doing", "members": ["snitch", "bluff", "alibi", "grill"]}, {"name": "security", "color": "#e5534b", "blurb": "probe prompts and context for attacks and leaks", "members": ["strawman", "frisk", "mole"]}, {"name": "workflow", "color": "#a371f7", "blurb": "change how the model decides and when it acts", "members": ["interrobang", "combo"]}, {"name": "productivity", "color": "#d4a017", "blurb": "everyday LLM dev chores, done faster", "members": ["steno", "tollbooth", "lineup"]}], CATOF = [0, 1, 2, 3, 4, 0, 2, 0, 4, 1, 2, 0, 1, 0, 1, 4, 0, 3], SEED = 42;
 const REPO = "JGalego/Bag-of-Tricks", REF = "main";
 const NODES = [...document.querySelectorAll('.node')];
 const PILLS = CATS.map((_, k) => document.getElementById('cat' + k));

diff --git a/README.md b/README.md
@@ -180,6 +180,12 @@ Or directly: `ruff check .`, `ruff format .`, `pytest`. A [Makefile](Makefile) m
 
 CI runs the same checks on every push and PR across Python 3.9–3.12 (see [.github/workflows/ci.yml](.github/workflows/ci.yml)).
 
+## inspirational quote
+
+> "I'm not excited by what AI can do. **I'm excited by what I can do.**"
+>
+> -- Kelsey Hightower
+
 ## license
 
 MIT — see [LICENSE](LICENSE). Use them, fork them, rename them, put them in your own bag.